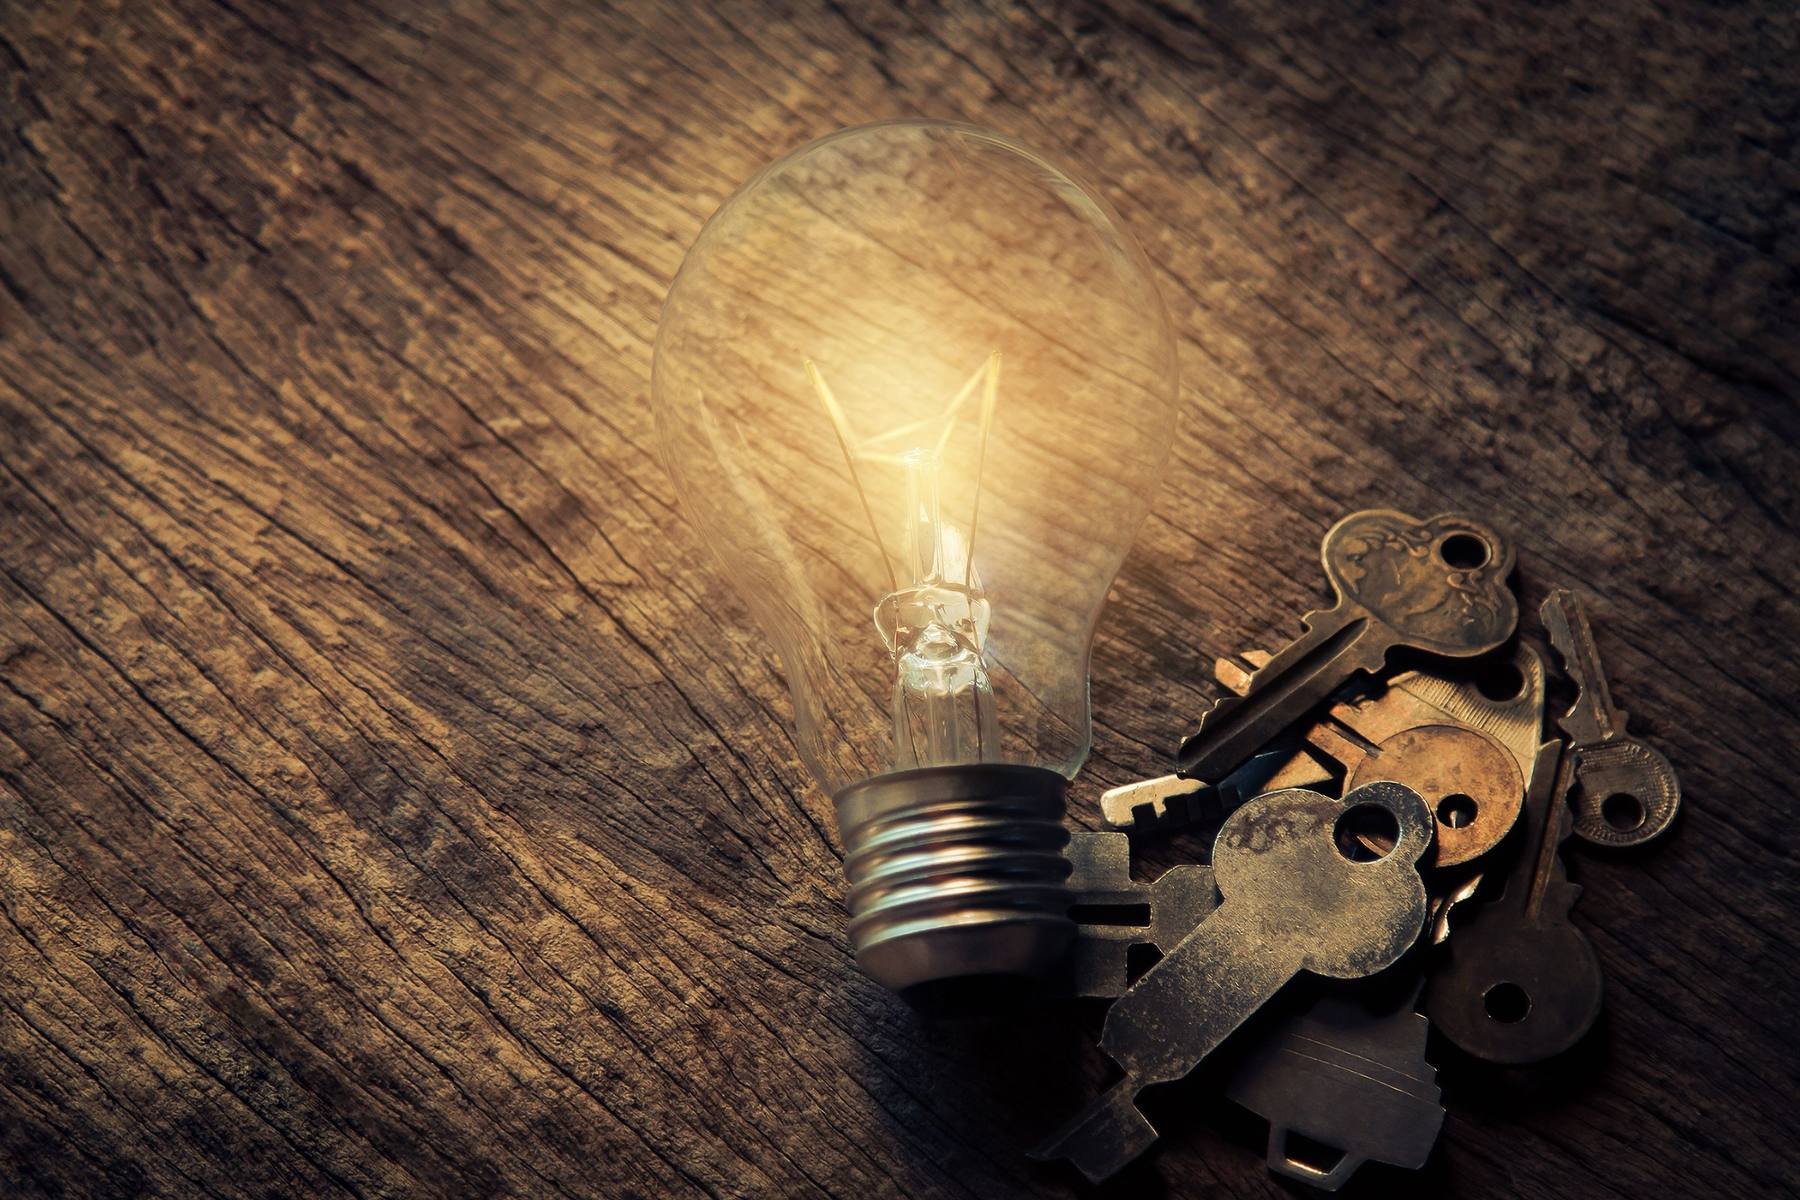
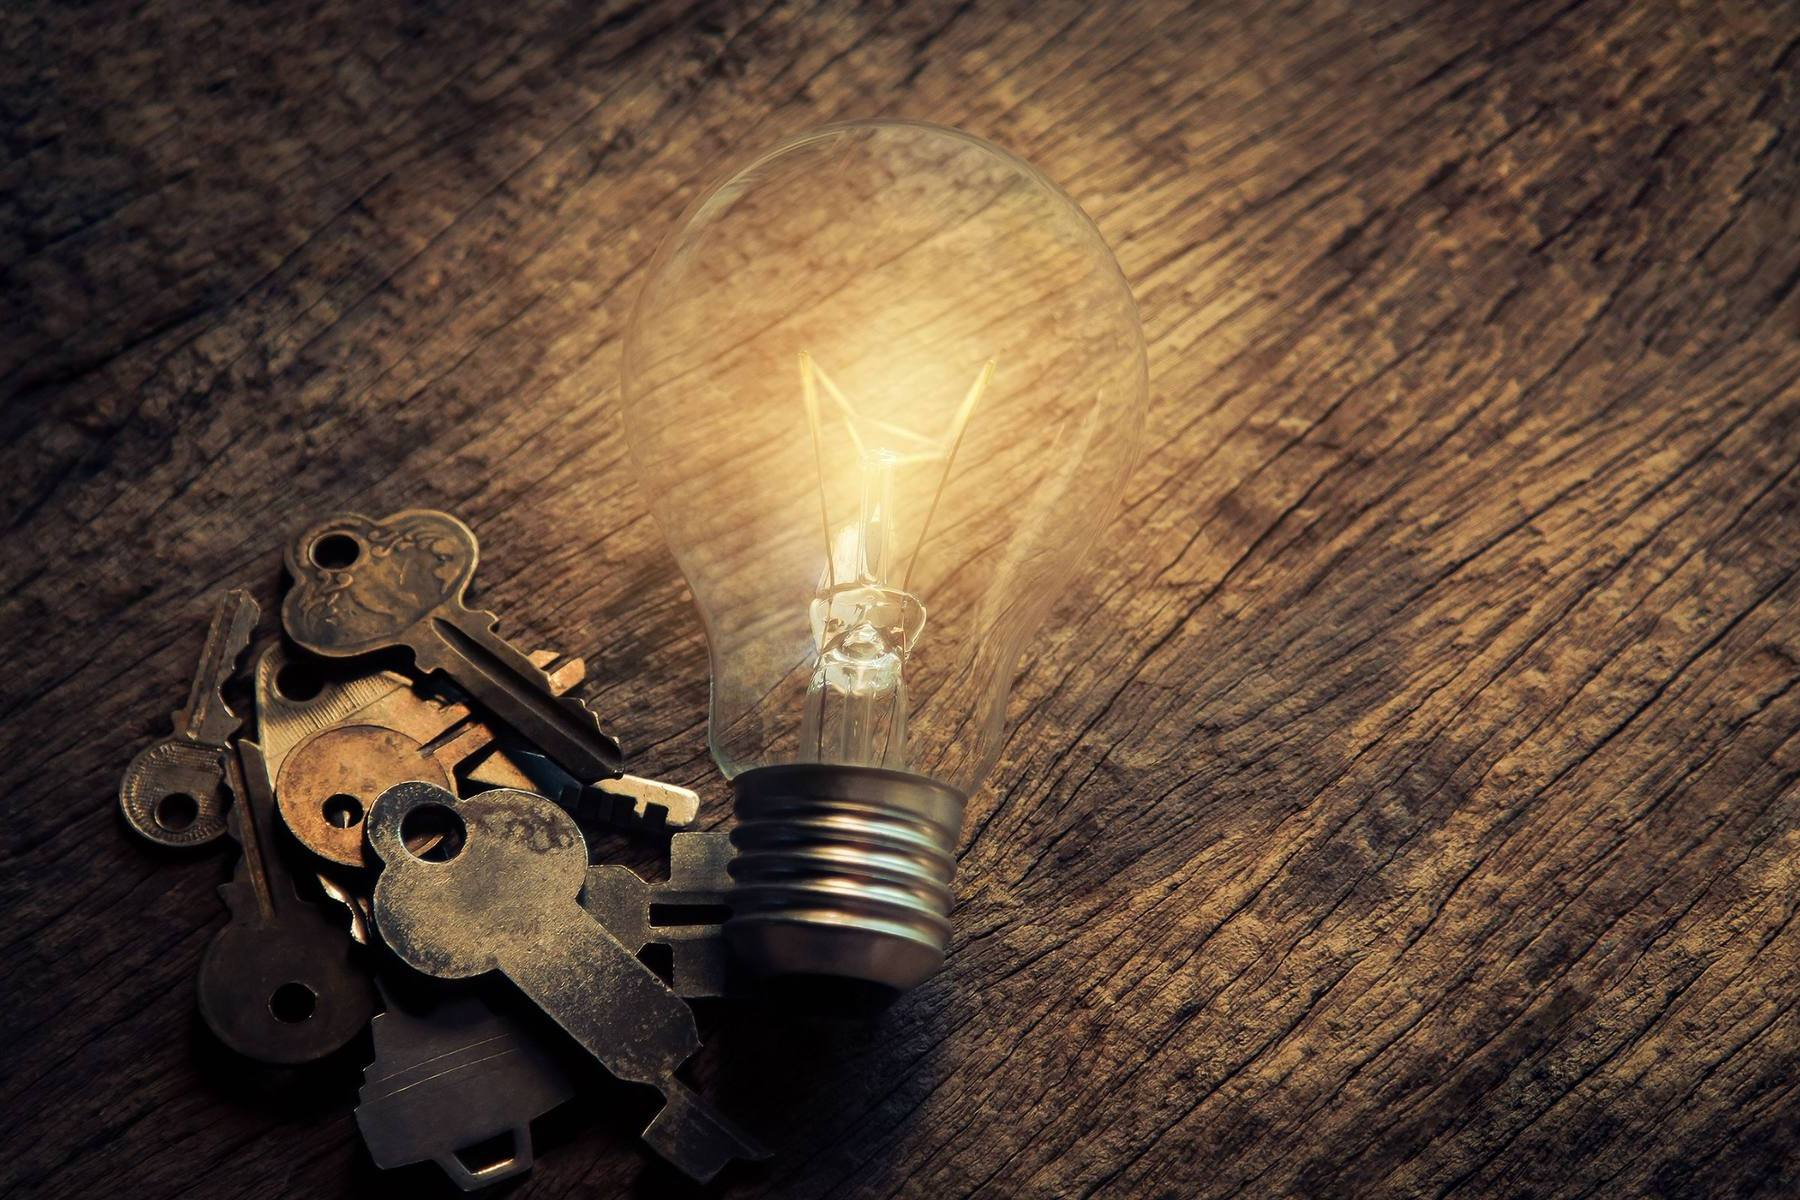
Preview: hero with own photo; flip booking photo
Claude-Session: https://claude.ai/code/session_01D7X8y5J2kUKxxgd4He9MpU

diff --git a/styles.css b/styles.css
@@ -416,10 +416,24 @@ h1,h2,h3,.brand-name,.statement-text,.quote-head,.quote-after,.quiz legend,.meth
 /* Booking section photo */
 .cta::before{background:linear-gradient(rgba(12,30,58,.66),rgba(12,30,58,.82)),url(book-bg.jpg) 65% center/cover no-repeat;opacity:1}
 @media (min-width:1000px){
-  .cta::before{background:linear-gradient(90deg,rgba(12,30,58,.72),rgba(12,30,58,.66) 50%,rgba(12,30,58,.82)),url(book-bg.jpg) 92% center/165% auto no-repeat}
+  .cta::before{background:linear-gradient(90deg,rgba(12,30,58,.72),rgba(12,30,58,.66) 50%,rgba(12,30,58,.82)),url(book-bg.jpg) 58% center/150% auto no-repeat}
   .cta-split{flex-direction:row;align-items:center;justify-content:space-between;gap:56px;text-align:left}
   .cta-copy{flex:1 1 0;display:flex;flex-direction:column;gap:22px;align-items:flex-start;min-width:0}
   .cta-split .calendly-card{flex:0 0 min(560px,50%);margin:0}
   .cta-copy h2{font-size:46px}
 }
 @media (max-width:999px){.cta-copy{display:flex;flex-direction:column;gap:20px;align-items:center;order:0}.cta-split .calendly-card{order:1}.cta::before{background-position:center,62% center}}
+/* Hero: own photo */
+.hero{background:var(--sand) url(hero-photo.jpg) 72% center/cover no-repeat}
+.glass{max-width:620px}
+@media (max-width:900px){.hero{background-position:68% center}}
+.hero{background-position:12% 62%;min-height:560px}
+.glass{max-width:560px;padding:40px 44px}
+.glass h1{font-size:42px}
+@media (max-width:900px){.hero{background-position:50% center}}
+@media (max-width:700px){
+  .hero{align-items:flex-end;min-height:0;padding-top:300px;background-position:80% top}
+  .hero-inner{padding-top:0;padding-bottom:20px}
+  .glass{padding:28px 22px}
+  .glass h1{font-size:32px}
+}
